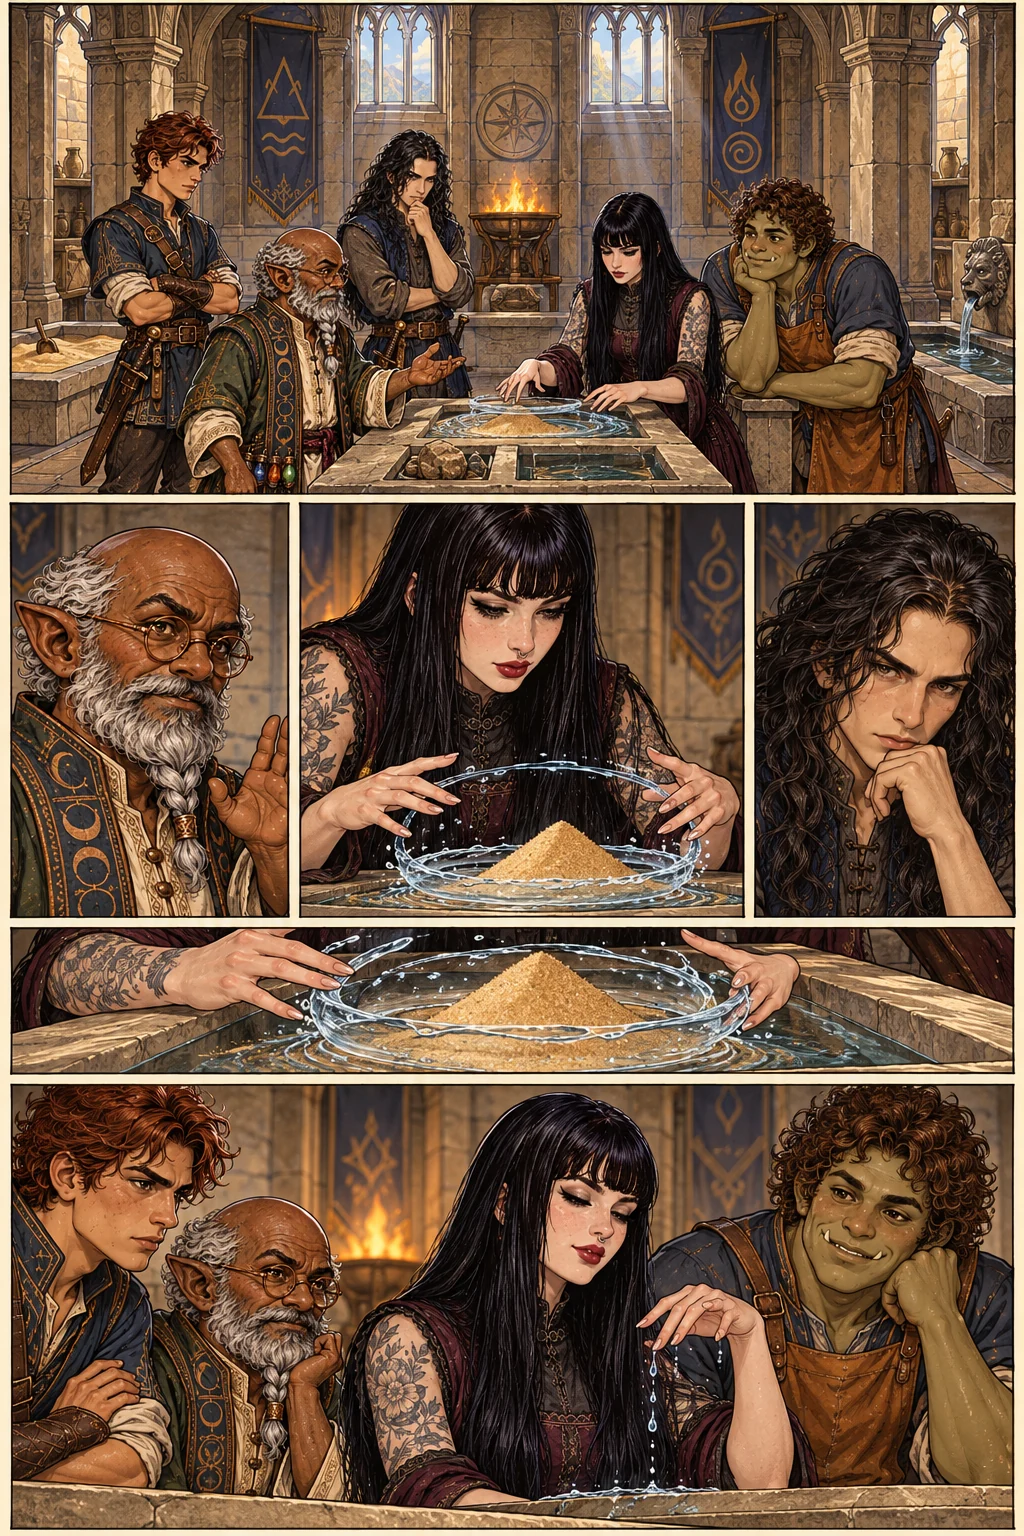
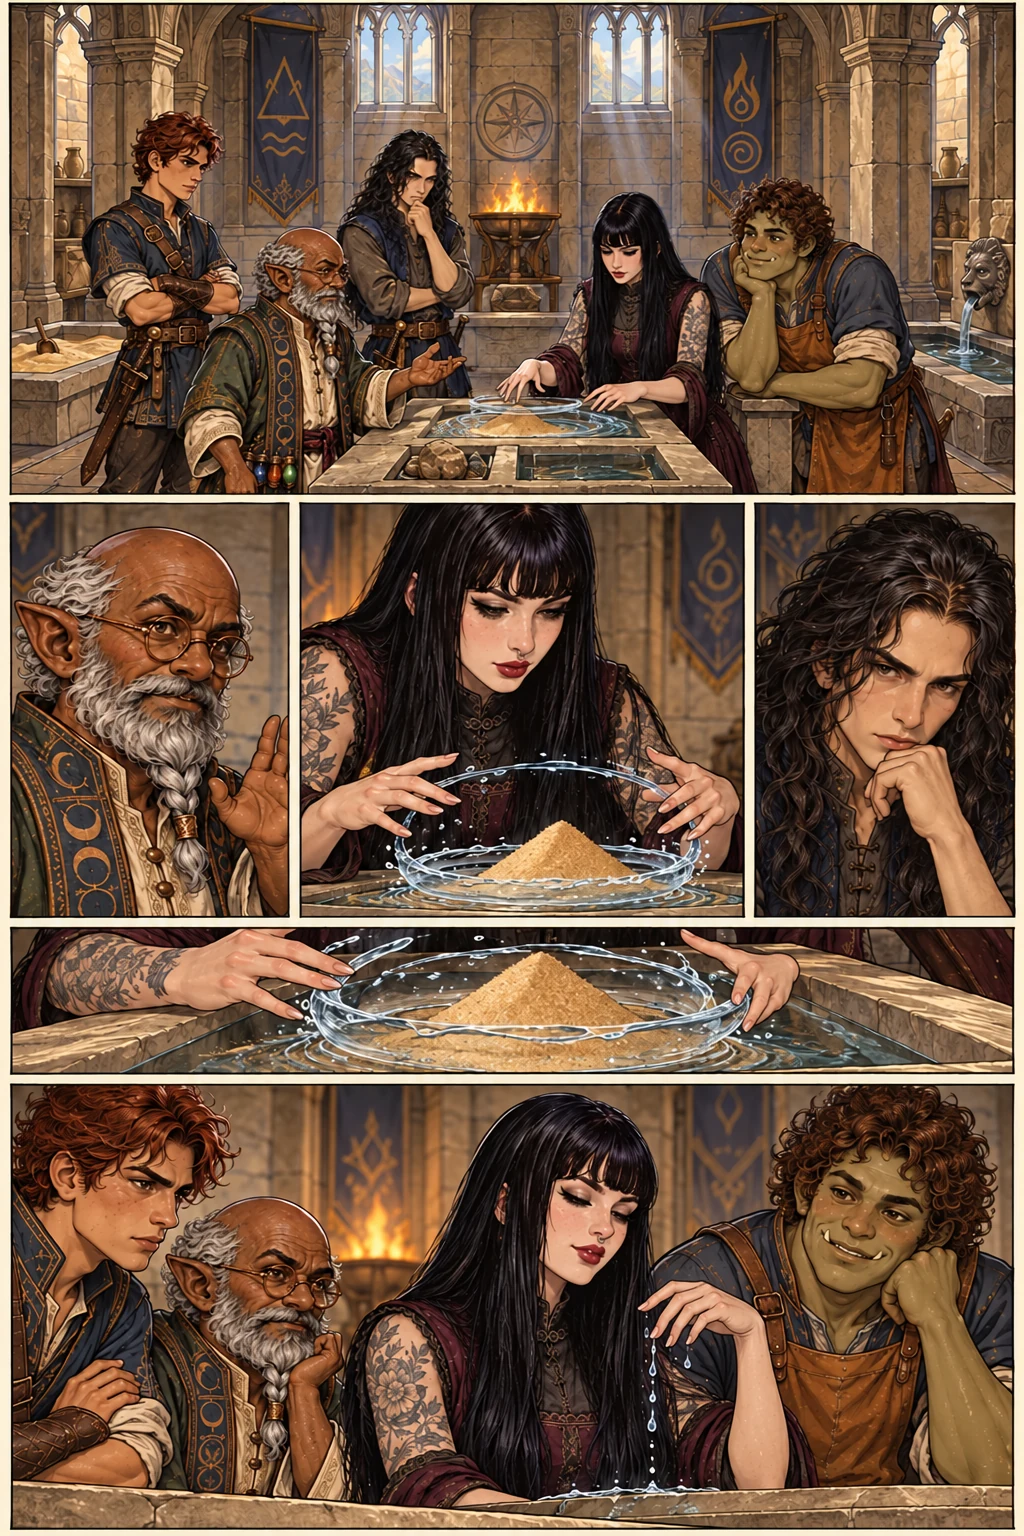
Correct Runa hand anatomy on medieval comic page 114

diff --git a/reader/templates/reader/medieval_read.html b/reader/templates/reader/medieval_read.html
@@ -11,7 +11,7 @@
   <article class="twilight-comic" aria-label="{{ page.title }}">
     {% if page.number > 12 and page.number <= 25 %}<p class="twilight-scroll-hint">Deslize cada quadro para ler toda a arte e os balões <span aria-hidden="true">→</span></p>{% endif %}
     {% if page.number > 25 %}<p class="twilight-scroll-hint">Deslize a página para ler toda a arte e os balões <span aria-hidden="true">→</span></p><div class="twilight-page-scroll"><figure class="twilight-page-stage twilight-panel-dialogue{% if page.number >= 150 %} twilight-page-stage--wide{% endif %}{% if page.number >= 190 %} twilight-page-stage--direct-tails{% endif %}" data-page-number="{{ page.number }}" aria-label="{{ page.title }}">
-      <img class="twilight-full-art" src="{% static page_art %}{% if page.number == 32 %}?v=anatomy-2{% endif %}" alt="Arte da página {{ page.number }}: {{ page.title }}" fetchpriority="high" width="1024" height="1536">
+      <img class="twilight-full-art" src="{% static page_art %}{% if page.number == 32 %}?v=anatomy-2{% elif page.number == 114 %}?v=hand-2{% endif %}" alt="Arte da página {{ page.number }}: {{ page.title }}" fetchpriority="high" width="1024" height="1536">
       {% for line in page.lines %}<p class="twilight-speech twilight-page-speech{% if line.balloon.kind %} twilight-speech--{{ line.balloon.kind }}{% endif %}" style="--bubble-x:{{ line.balloon.x|unlocalize }}%;--bubble-y:{{ line.balloon.y|unlocalize }}%;--bubble-w:{{ line.balloon.w|unlocalize }}%" data-target-x="{{ line.balloon.target_x|unlocalize }}" data-target-y="{{ line.balloon.target_y|unlocalize }}"{% if line.balloon.kind %} data-balloon-kind="{{ line.balloon.kind }}"{% endif %}{% if line.off_panel %} data-off-panel="true"{% endif %}><strong>{{ line.speaker }}{% if line.off_panel %} · fora do quadro{% endif %}</strong><span>{{ line.text }}</span></p>{% endfor %}
       <svg class="twilight-balloon-tails" aria-hidden="true"></svg>
     </figure></div>

diff --git a/dist/hqs/estradas-do-crepusculo/ler/114/index.html b/dist/hqs/estradas-do-crepusculo/ler/114/index.html
@@ -66,7 +66,7 @@
   <article class="twilight-comic" aria-label="Quatro ritmos">
 
     <p class="twilight-scroll-hint">Deslize a página para ler toda a arte e os balões <span aria-hidden="true">→</span></p><div class="twilight-page-scroll"><figure class="twilight-page-stage twilight-panel-dialogue" data-page-number="114" aria-label="Quatro ritmos">
-      <img class="twilight-full-art" src="/static/reader/images/medieval/page-114.webp" alt="Arte da página 114: Quatro ritmos" fetchpriority="high" width="1024" height="1536">
+      <img class="twilight-full-art" src="/static/reader/images/medieval/page-114.webp?v=hand-2" alt="Arte da página 114: Quatro ritmos" fetchpriority="high" width="1024" height="1536">
       <p class="twilight-speech twilight-page-speech" style="--bubble-x:3%;--bubble-y:26%;--bubble-w:41%" data-target-x="24" data-target-y="44"><strong>Oru</strong><span>Controle é ouvir o limite de cada coisa.</span></p><p class="twilight-speech twilight-page-speech" style="--bubble-x:55%;--bubble-y:26%;--bubble-w:41%" data-target-x="55" data-target-y="43"><strong>Runa</strong><span>A água volta à calha sem tocar a chama.</span></p>
       <svg class="twilight-balloon-tails" aria-hidden="true"></svg>
     </figure></div>

diff --git a/reader/tests/test_medieval.py b/reader/tests/test_medieval.py
@@ -82,6 +82,13 @@ def test_page_32_keeps_corrected_nima_art(client):
     assert "page-32.webp?v=anatomy-2" in html
 
 
+def test_page_114_keeps_corrected_runa_hand(client):
+    art = Path(__file__).resolve().parents[1] / "static" / page_art(114)
[1 lines of base64/hex data omitted]
+    html = client.get(reverse("reader:medieval_read", args=(114,))).content.decode()
+    assert "page-114.webp?v=hand-2" in html
+
+
 def test_medieval_catalog_shows_series_and_reader_navigation(client):
     catalog = client.get(reverse("reader:search"), {"tipo": "hq"})
     assert catalog.status_code == 200
